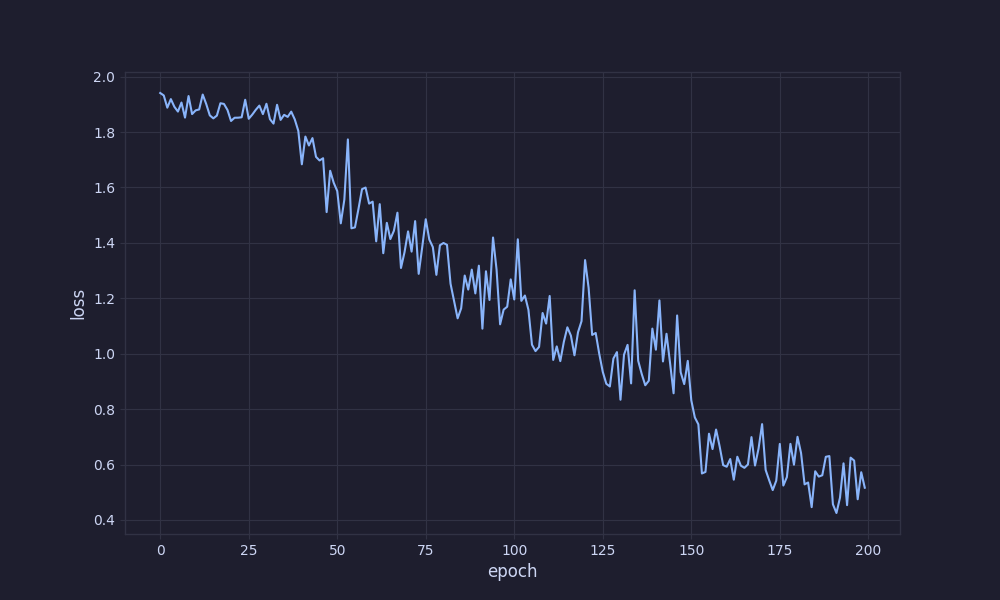
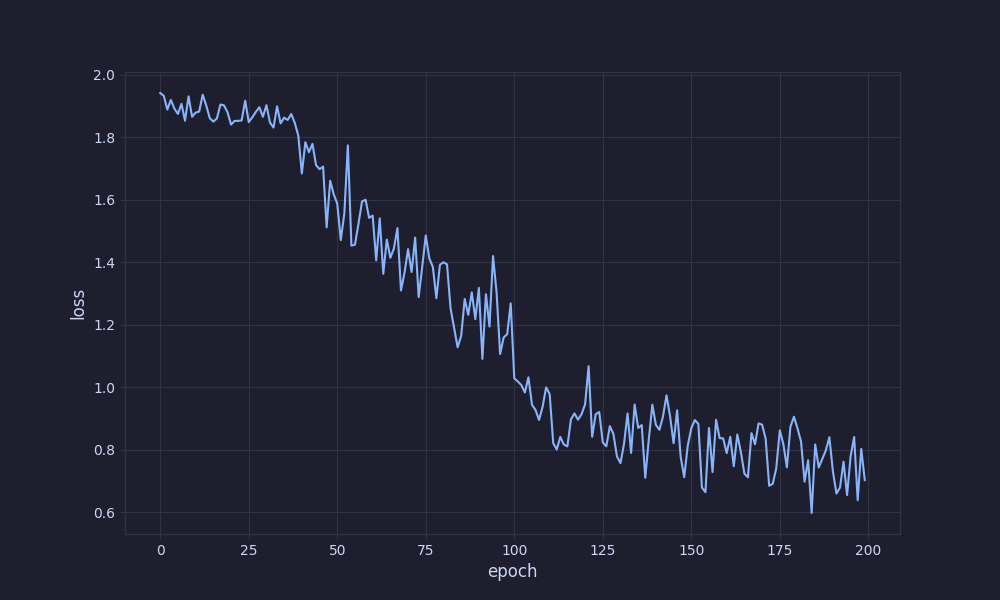
rnn hyperparams

diff --git a/src/rnn.py b/src/rnn.py
@@ -82,7 +82,7 @@ def forward(model: eqx.Module, X: jax.Array) -> jax.Array:
     return logits
 
 
-@eqx.filter_value_and_grad
+@eqx.filter_jit
 def get_loss(model: eqx.Module, X: jax.Array, y: jax.Array):
     logits = forward(model, X)
 
@@ -105,7 +105,7 @@ for epoch in range(epochs + 1):
     Xb, Yb = Xtr[ix], Ytr[ix]
 
     # forward pass
-    loss, gradient = get_loss(model, Xb, Yb)
+    loss = get_loss(model, Xb, Yb)
     lossi.append(loss)
 
     if epoch % 500 == 0:
@@ -113,17 +113,17 @@ for epoch in range(epochs + 1):
 
     # learning rate decay
     if epoch == decay_step:
-        lr /= 10
+        lr /= 5
 
     # backward pass
+    gradient = get_grad(model, Xb, Yb)
     updates = jax.tree_util.tree_map(lambda g: -lr * g, gradient)
     model = eqx.apply_updates(model, updates)
 
 # 6. validation test
 valid_loss = 0.0
 for i in range(len(Xval)):
-    loss, _ = get_loss(model, Xval[i], Yval[i])
-    valid_loss += loss
+    valid_loss += get_loss(model, Xval[i], Yval[i])
 valid_loss /= len(Xval)
 print(f"valid_loss={valid_loss:.3f}")  # best loss is 0.611
 
